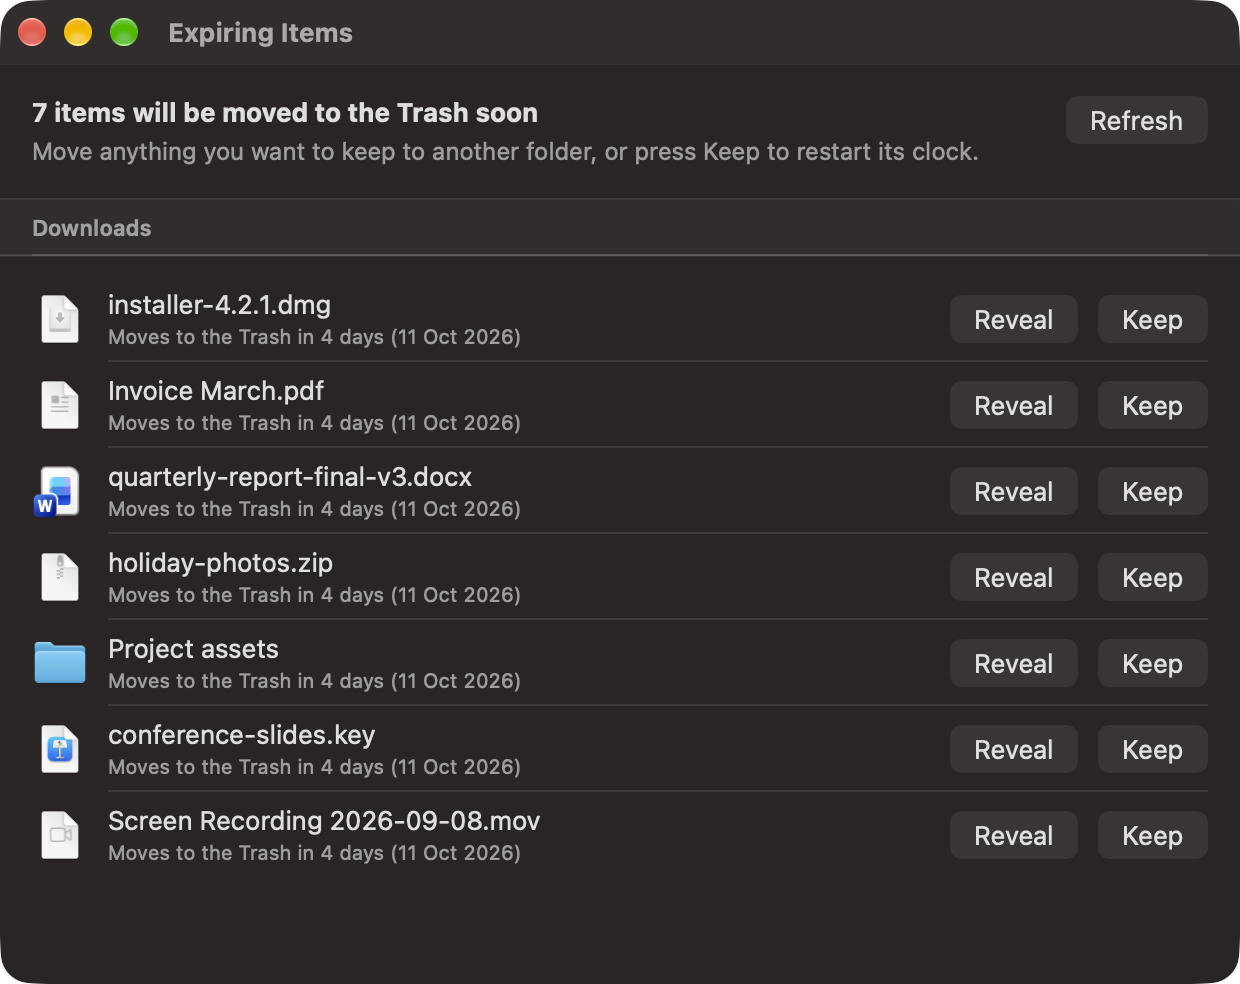
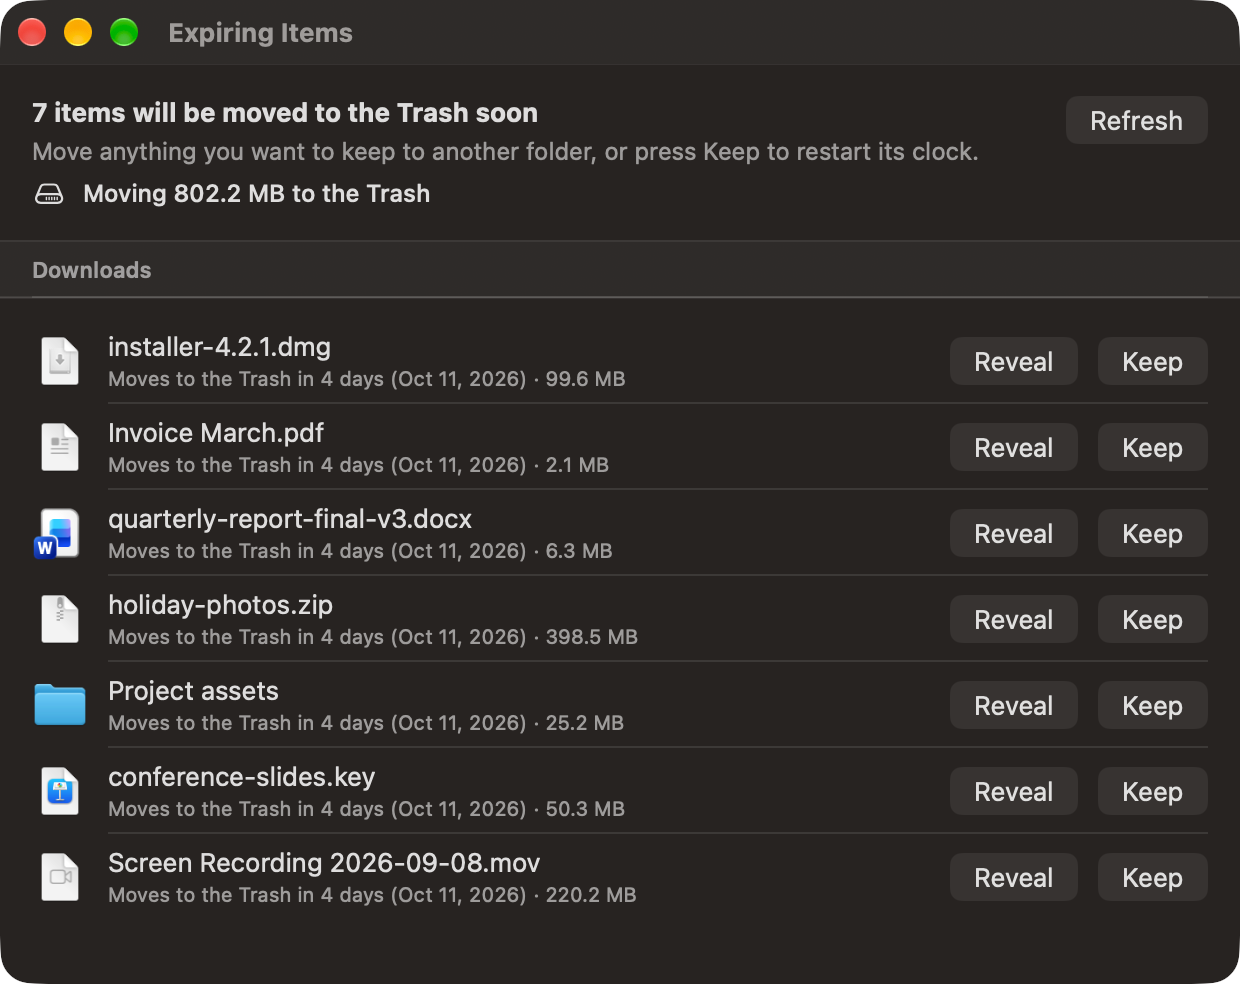
Show how much data is moving to the Trash
The Expiring Items window now shows the total size of everything in its
warning period (Moving 802.2 MB to the Trash) and the size of each item.

Sizes are measured only for items that are not fresh, so the daily scan
stays cheap. Folders are measured recursively, hidden files included,
using allocated disk size in decimal units like Finder. The README text
and review screenshot (made from fake demo files) are updated.

Claude-Session: https://claude.ai/code/session_01TrTagUDvKbVVbRioKZo7pq

diff --git a/Tests/main.swift b/Tests/main.swift
@@ -155,6 +155,31 @@ let missing = Engine.evaluate(config: Config(folders: [WatchedFolder(path: tmp.p
                               state: State(), now: Date())
 check(missing.errors.count == 1, "missing folder is reported")
 
+// MARK: Sizes
+
+let sized = tmp.appendingPathComponent("sized")
+try fm.createDirectory(at: sized.appendingPathComponent("sub"), withIntermediateDirectories: true)
+try Data(count: 100_000).write(to: sized.appendingPathComponent("big.bin"))
+try Data(count: 50_000).write(to: sized.appendingPathComponent("sub/.hidden.bin"))
+let bigSize = FolderScanner.size(of: sized.appendingPathComponent("big.bin"))
+check(bigSize >= 100_000 && bigSize < 200_000, "file size is its allocated size, got \(bigSize)")
+let folderSize = FolderScanner.size(of: sized)
+check(folderSize >= bigSize + 50_000, "folder size includes nested and hidden files, got \(folderSize)")
+check(FolderScanner.size(of: sized.appendingPathComponent("missing")) == 0, "missing path measures 0")
+
+let cfgSized = Config(folders: [WatchedFolder(path: sized.path, maxAgeDays: 1, warnDays: 1)], checkHour: 9)
+let later2 = Date().addingTimeInterval(10 * day)
+let sizedResult = Engine.evaluate(config: cfgSized, state: State(), now: later2, useAddedDate: false)
+check(sizedResult.evaluations.count == 2 && sizedResult.evaluations.allSatisfy { $0.size > 0 },
+      "non-fresh items are measured: \(sizedResult.evaluations.map { $0.size })")
+let freshResult = Engine.evaluate(config: cfgSized, state: State(), now: Date().addingTimeInterval(-10 * day), useAddedDate: false)
+check(freshResult.evaluations.allSatisfy { $0.verdict == .fresh && $0.size == 0 }, "fresh items are not measured")
+check(Summary.totalSizeText(for: sizedResult.evaluations) != nil, "total is shown when sizes are known")
+check(Summary.totalSizeText(for: [eval("a", ageDays: 27)]) == nil, "no total when nothing was measured")
+// The separator follows the user's locale ("1.2" or "1,2"), so only check the number and unit.
+let gbText = Summary.sizeText(1_200_000_000)
+check(gbText.hasPrefix("1") && gbText.hasSuffix("GB"), "decimal units like Finder: \(gbText)")
+
 // MARK: Safety
 
 let home = URL(fileURLWithPath: "/Users/alice")

diff --git a/Sources/Core/FolderScanner.swift b/Sources/Core/FolderScanner.swift
@@ -63,6 +63,42 @@ enum FolderScanner {
         return result
     }
 
+    /// Safety valve for `size(of:)`, like `maxDescendantsInspected`.
+    static let maxDescendantsMeasured = 500_000
+
+    /// Approximate disk space `url` occupies, in bytes: the allocated size of a file, or of every
+    /// regular file inside a folder (hidden ones too, since they go to the Trash with it).
+    /// Approximate because hard links are counted once per link and the result stops at
+    /// `maxDescendantsMeasured` entries.
+    static func size(of url: URL, fm: FileManager = .default) -> Int64 {
+        let keys: [URLResourceKey] = [.isRegularFileKey, .totalFileAllocatedSizeKey, .fileAllocatedSizeKey, .fileSizeKey]
+
+        func fileSize(_ url: URL) -> Int64 {
+            guard let v = try? url.resourceValues(forKeys: Set(keys)), v.isRegularFile == true else { return 0 }
+            return Int64(v.totalFileAllocatedSize ?? v.fileAllocatedSize ?? v.fileSize ?? 0)
+        }
+
+        var isDir: ObjCBool = false
+        guard fm.fileExists(atPath: url.path, isDirectory: &isDir) else { return 0 }
+        if !isDir.boolValue { return fileSize(url) }
+
+        guard let enumerator = fm.enumerator(
+            at: url,
+            includingPropertiesForKeys: keys,
+            options: [],
+            errorHandler: { _, _ in true }
+        ) else { return 0 }
+
+        var total: Int64 = 0
+        var count = 0
+        for case let child as URL in enumerator {
+            count += 1
+            if count > maxDescendantsMeasured { break }
+            total += fileSize(child)
+        }
+        return total
+    }
+
     private static func newestModification(in dir: URL, fm: FileManager) -> Date {
         var newest = Date.distantPast
         guard let enumerator = fm.enumerator(

diff --git a/Sources/Core/Planner.swift b/Sources/Core/Planner.swift
@@ -78,7 +78,10 @@ enum Engine {
                 let items = try FolderScanner.scan(folder: folder.url, fm: fm, useAddedDate: useAddedDate)
                 for item in items {
                     let record = state.records[item.url.path]
-                    all.append(Planner.evaluate(item: item, folder: folder, record: record, now: now))
+                    var ev = Planner.evaluate(item: item, folder: folder, record: record, now: now)
+                    // Measuring a folder walks its whole tree, so only do it for items that matter.
+                    if ev.verdict != .fresh { ev.size = FolderScanner.size(of: item.url, fm: fm) }
+                    all.append(ev)
                 }
             } catch {
                 errors.append("\(folder.path): \(error.localizedDescription)")
@@ -146,6 +149,19 @@ enum Engine {
 }
 
 enum Summary {
+    /// "1.2 GB", "340 KB", ... in the same decimal units Finder uses.
+    static func sizeText(_ bytes: Int64) -> String {
+        let f = ByteCountFormatter()
+        f.countStyle = .file
+        return f.string(fromByteCount: bytes)
+    }
+
+    /// Total size of the given items, e.g. "1.2 GB"; nil when nothing was measured.
+    static func totalSizeText(for evaluations: [Evaluation]) -> String? {
+        let total = evaluations.reduce(Int64(0)) { $0 + $1.size }
+        return total > 0 ? sizeText(total) : nil
+    }
+
     /// Text for the "these files are about to be trashed" notification.
     static func notification(for evaluations: [Evaluation],
                              now: Date,

diff --git a/Sources/App/ReviewView.swift b/Sources/App/ReviewView.swift
@@ -30,6 +30,12 @@ struct ReviewView: View {
                     Text("Move anything you want to keep to another folder, or press Keep to restart its clock.")
                         .font(.callout)
                         .foregroundStyle(.secondary)
+                    if let total = Summary.totalSizeText(for: model.pending) {
+                        Label("Moving \(total) to the Trash", systemImage: "internaldrive")
+                            .font(.callout.weight(.medium))
+                            .padding(.top, 2)
+                            .help("Disk space is freed once the Trash is emptied")
+                    }
                 }
                 Spacer()
                 Button("Refresh") { Task { await model.preview() } }
@@ -91,9 +97,10 @@ struct ReviewView: View {
     }
 
     private func whenText(_ ev: Evaluation) -> String {
-        if ev.verdict == .trash { return "Due now — moves to the Trash at the next check" }
+        let size = ev.size > 0 ? " · \(Summary.sizeText(ev.size))" : ""
+        if ev.verdict == .trash { return "Due now — moves to the Trash at the next check" + size }
         let days = ev.daysLeft(now: Date())
         let date = ev.deadline.formatted(date: .abbreviated, time: .omitted)
-        return "Moves to the Trash in \(days) day\(days == 1 ? "" : "s") (\(date))"
+        return "Moves to the Trash in \(days) day\(days == 1 ? "" : "s") (\(date))" + size
     }
 }

diff --git a/Sources/Core/Models.swift b/Sources/Core/Models.swift
@@ -91,6 +91,9 @@ struct Evaluation: Identifiable, Equatable {
     /// Earliest moment the item may be moved to the Trash.
     let deadline: Date
     let verdict: Verdict
+    /// Disk space the item takes up, in bytes (folders: everything inside, hidden files included).
+    /// Only measured for items that are not `.fresh`; 0 means "not measured".
+    var size: Int64 = 0
 
     var id: String { item.url.path }
     var name: String { item.url.lastPathComponent }

diff --git a/README.md b/README.md
@@ -4,7 +4,7 @@ A small, native macOS menu bar app that keeps your Downloads folder (and any oth
 
 - Items **older than 30 days** are moved to the **Trash**. Nothing is ever deleted outright.
 - **5 days before** that happens you get a notification listing what is about to go, so you have time to move things elsewhere.
-- Click the notification (or the menu bar icon) to open a review window with **Reveal in Finder** and **Keep** for each item.
+- Click the notification (or the menu bar icon) to open a review window with **Reveal in Finder** and **Keep** for each item, along with each item's size and the total space you save.
 - You get a reminder every day until the item is gone or rescued.
 - Every folder has its own age limit and warning period, configurable in a **Settings** window.
 
@@ -16,9 +16,9 @@ A trash icon in the menu bar is all you normally see. It shows a count while any
 
 <p align="center"><img src="docs/screenshots/menu.png" width="267" alt="The menu bar menu: last check time, Review Expiring Items, Check Now, Settings, Open History Log, Quit"></p>
 
-**Review window.** Everything that is about to be trashed, grouped by folder, with the date it will go. *Reveal* shows the item in Finder; *Keep* restarts its clock.
+**Review window.** Everything that is about to be trashed, grouped by folder, with the date it will go and its size, plus the total amount of data that will move to the Trash (the space is freed once you empty it). *Reveal* shows the item in Finder; *Keep* restarts its clock.
 
-<p align="center"><img src="docs/screenshots/review.png" width="620" alt="Review window listing seven items in Downloads that move to the Trash in 4 days, each with Reveal and Keep buttons"></p>
+<p align="center"><img src="docs/screenshots/review.png" width="620" alt="Review window listing seven items in Downloads with their sizes, the total space saved, and Reveal and Keep buttons"></p>
 
 **Settings.** Add any folder and give it its own age limit and warning period.
 
